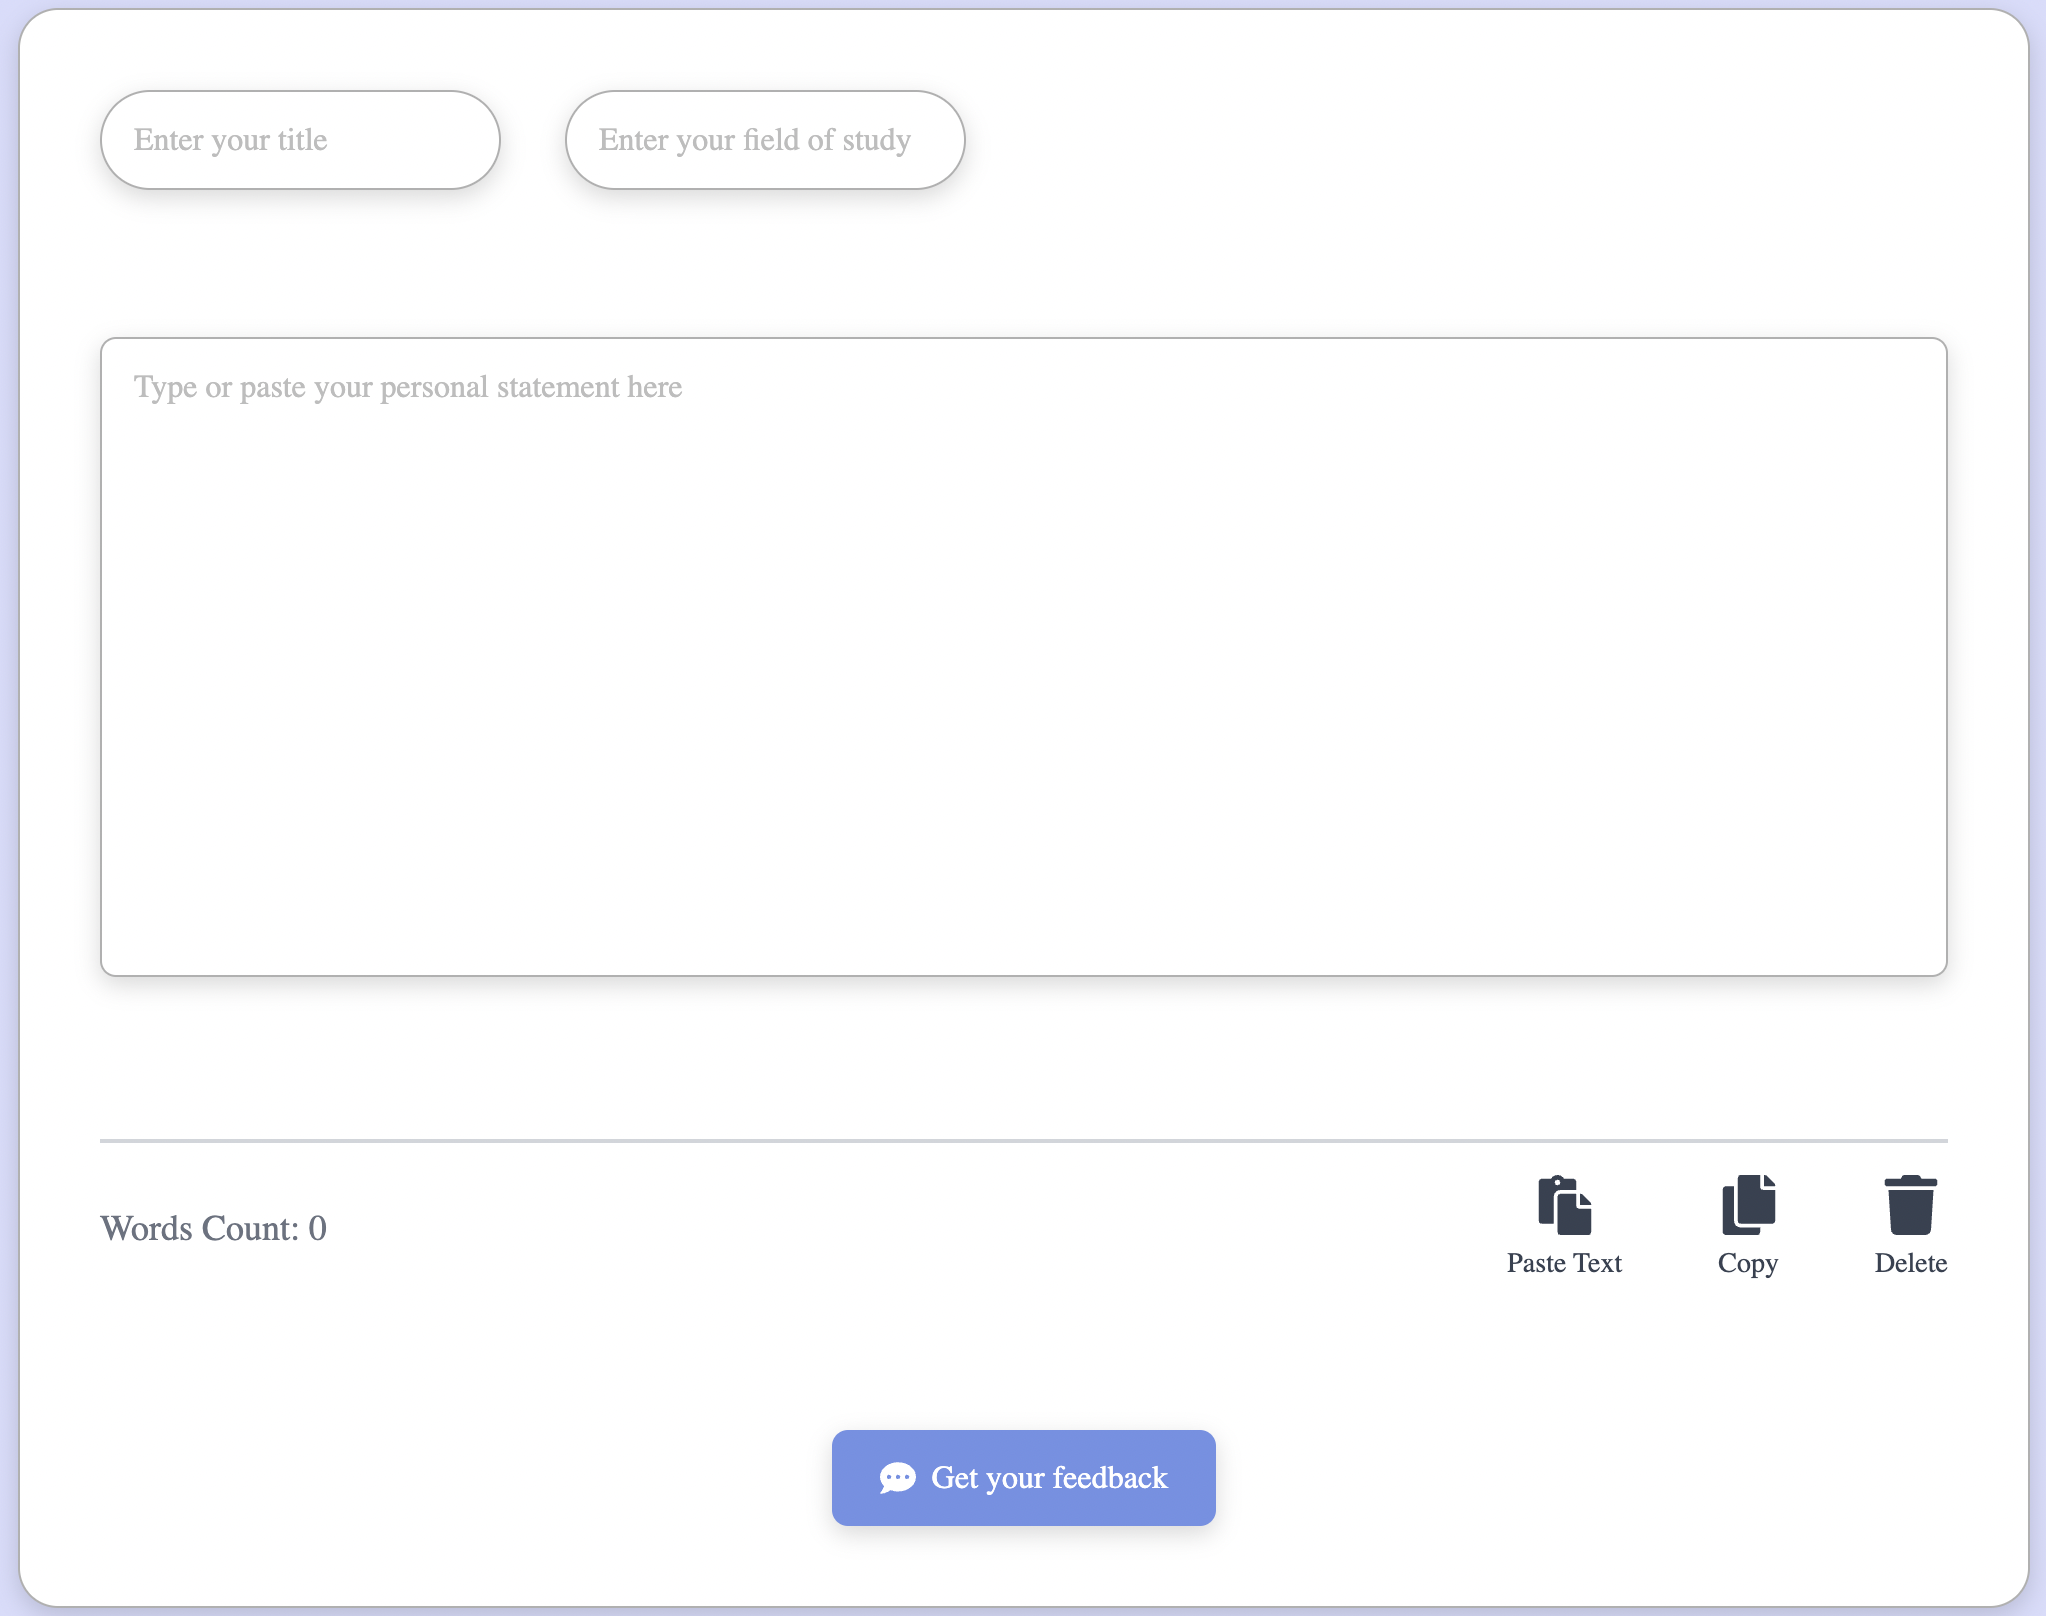
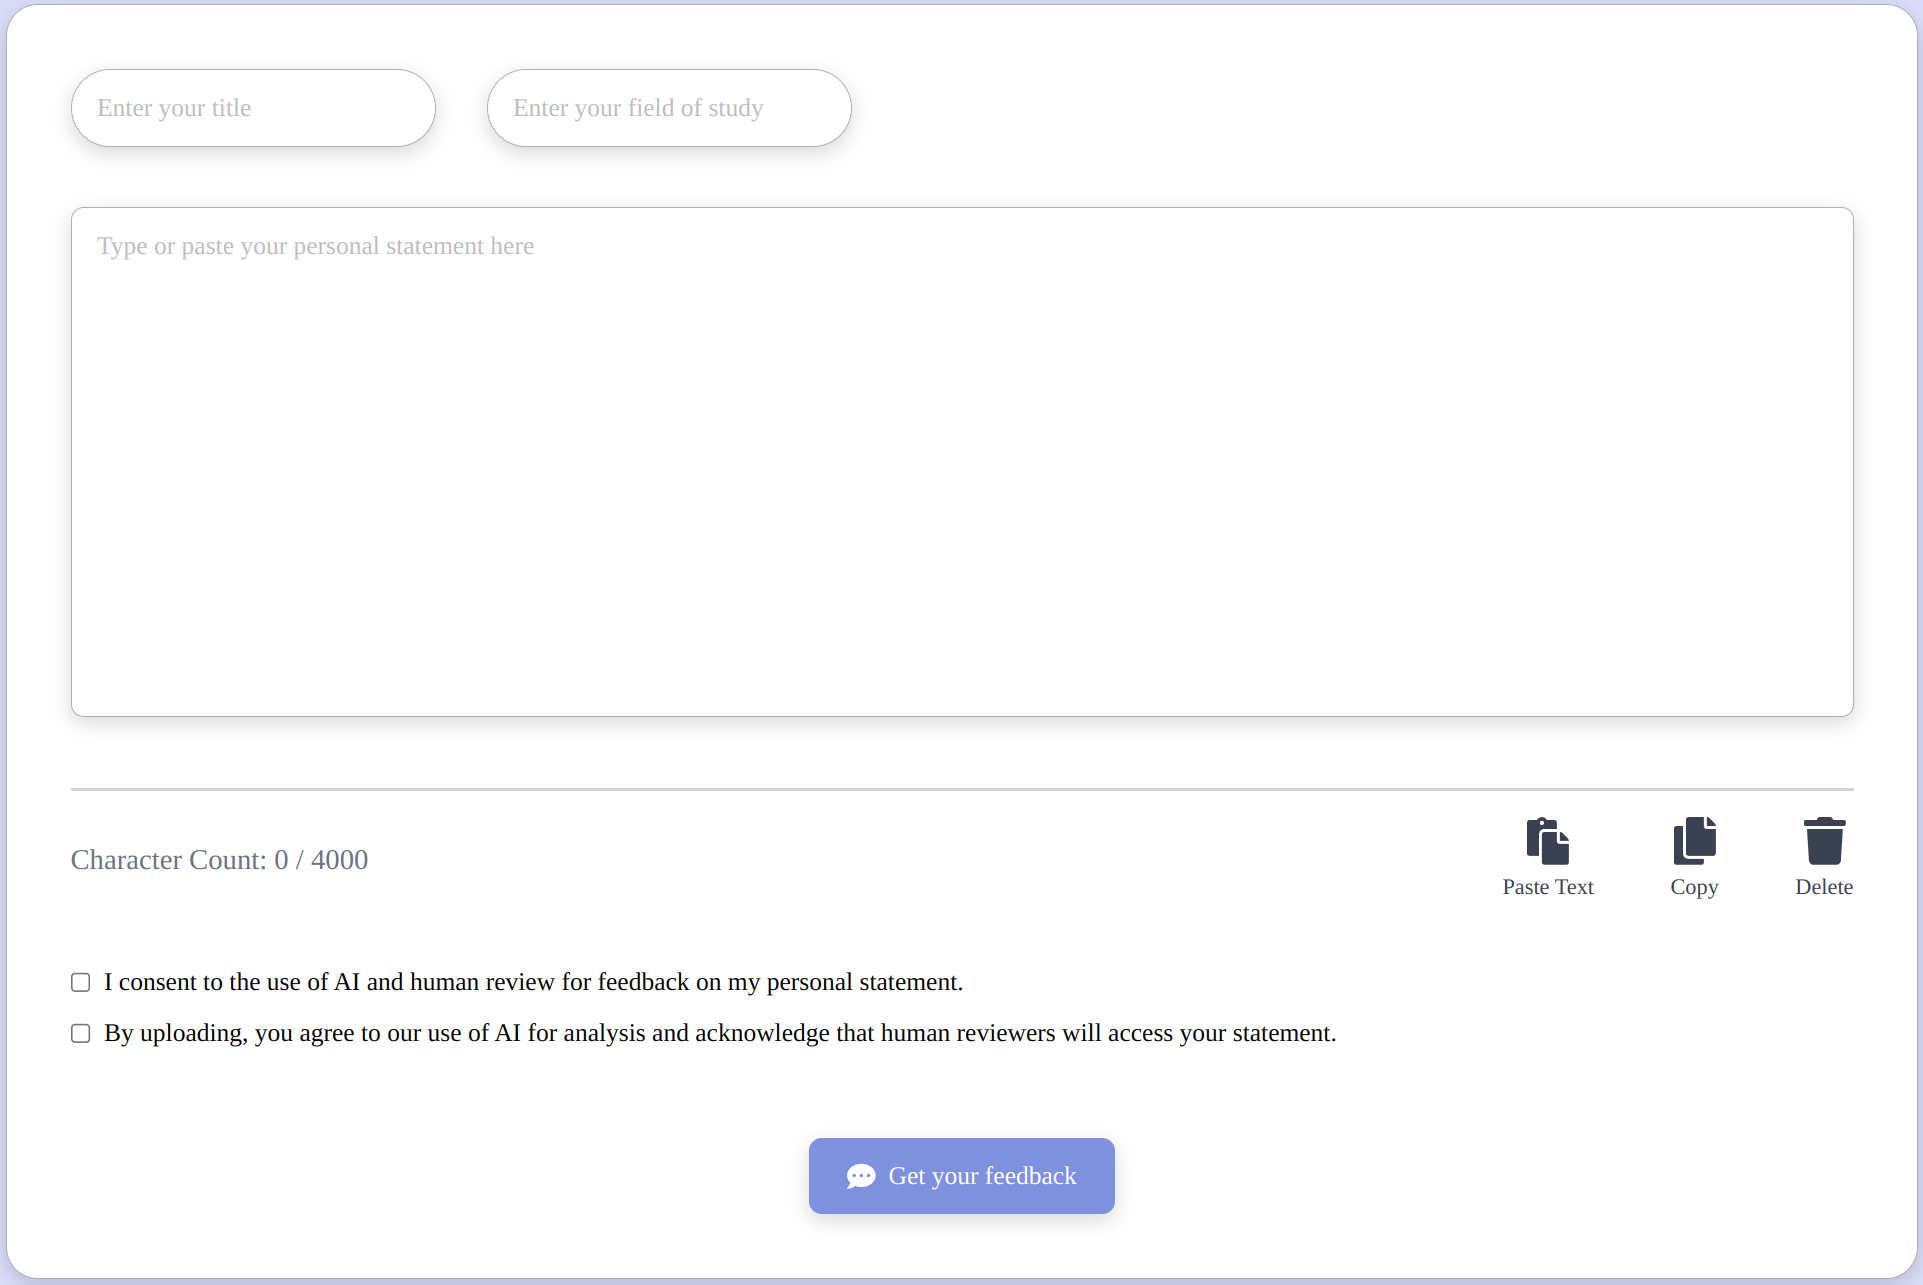
Add consent checkbox

diff --git a/frontend/src/pages/UploadPage.tsx b/frontend/src/pages/UploadPage.tsx
@@ -22,6 +22,8 @@ const UploadPage: React.FC = () => {
   const [errorMessage, setErrorMessage] = useState<string | null>(null);
   const [isLoading, setIsLoading] = useState<boolean>(false);
   const [showModal, setShowModal] = useState<boolean>(false);
+  const [consentChecked, setConsentChecked] = useState<boolean>(false);
+  const [acknowledgeChecked, setAcknowledgeChecked] = useState<boolean>(false);
 
   const pricingRef = useRef<HTMLDivElement>(null);
   const personalStatementRef = useRef<HTMLDivElement>(null);
@@ -31,6 +33,11 @@ const UploadPage: React.FC = () => {
   }, []);
 
   const submitEssay = () => {
+    if (!consentChecked || !acknowledgeChecked) {
+      setErrorMessage("Please agree to the terms and conditions.");
+      return;
+    }
+
     const csrfToken = getCSRFToken();
     const postUrl = focus === "Oxbridge" ? "api/essay/" : "api/essay/jardine/";
 
@@ -113,7 +120,12 @@ const UploadPage: React.FC = () => {
       ) : (
         <>
           <div className="max-w-screen-xl mx-auto px-4 py-10">
-            <h2 ref={personalStatementRef} className="text-3xl font-black uppercase text-slate-500 text-center mt-20">Personal Statement</h2>
+            <h2
+              ref={personalStatementRef}
+              className="text-3xl font-black uppercase text-slate-500 text-center mt-20"
+            >
+              Personal Statement
+            </h2>
             <div className="max-w-[1200px] mx-auto space-y-16">
               <FocusSection focus={focus} setFocus={setFocus} />
               <EssayForm
@@ -124,12 +136,14 @@ const UploadPage: React.FC = () => {
                 fieldOfStudy={fieldOfStudy}
                 setFieldOfStudy={setFieldOfStudy}
                 submitEssay={submitEssay}
+                consentChecked={consentChecked}
+                setConsentChecked={setConsentChecked}
+                acknowledgeChecked={acknowledgeChecked}
+                setAcknowledgeChecked={setAcknowledgeChecked}
               />
             </div>
             {errorMessage && (
-              <div className="mb-4 text-center text-red-600">
-                {errorMessage}
-              </div>
+              <div className="mb-4 text-center text-red-600">{errorMessage}</div>
             )}
           </div>
 
@@ -137,7 +151,7 @@ const UploadPage: React.FC = () => {
             <Pricing />
           </div>
 
-          <Footer/>
+          <Footer />
         </>
       )}
 

diff --git a/frontend/src/components/Essay/Upload/EssayForm.tsx b/frontend/src/components/Essay/Upload/EssayForm.tsx
@@ -13,6 +13,10 @@ interface EssayFormProps {
   fieldOfStudy: string;
   setFieldOfStudy: React.Dispatch<React.SetStateAction<string>>;
   submitEssay: () => void;
+  consentChecked: boolean;
+  setConsentChecked: React.Dispatch<React.SetStateAction<boolean>>;
+  acknowledgeChecked: boolean;
+  setAcknowledgeChecked: React.Dispatch<React.SetStateAction<boolean>>;
 }
 
 const EssayForm: React.FC<EssayFormProps> = ({
@@ -23,6 +27,10 @@ const EssayForm: React.FC<EssayFormProps> = ({
   fieldOfStudy,
   setFieldOfStudy,
   submitEssay,
+  consentChecked,
+  setConsentChecked,
+  acknowledgeChecked,
+  setAcknowledgeChecked,
 }) => {
   const textAreaRef = useRef<HTMLTextAreaElement>(null);
 
@@ -36,6 +44,28 @@ const EssayForm: React.FC<EssayFormProps> = ({
         </div>
         <PersonalStatementInput statement={statement} setStatement={setStatement} textAreaRef={textAreaRef} />
         <FormFooter statement={statement} setStatement={setStatement} textAreaRef={textAreaRef} />
+
+        <div className="mb-4">
+          <div className="flex items-center mb-2">
+            <input
+              type="checkbox"
+              checked={consentChecked}
+              onChange={() => setConsentChecked(!consentChecked)}
+              className="mr-2"
+            />
+            <label>I consent to the use of AI and human review for feedback on my personal statement.</label>
+          </div>
+          <div className="flex items-center">
+            <input
+              type="checkbox"
+              checked={acknowledgeChecked}
+              onChange={() => setAcknowledgeChecked(!acknowledgeChecked)}
+              className="mr-2"
+            />
+            <label>By uploading, you agree to our use of AI for analysis and acknowledge that human reviewers will access your statement.</label>
+          </div>
+        </div>
+
         <div className="flex justify-center">
           <SubmitButton submitEssay={submitEssay} />
         </div>

diff --git a/frontend/src/pages/CommentPage/CommentPage.tsx b/frontend/src/pages/CommentPage/CommentPage.tsx
@@ -62,7 +62,6 @@ const CommentPage: React.FC = () => {
         } else {
           setErrorMessage("An unexpected error occurred.");
         }
-        console.log(errorMessage);
       });
   };
 
@@ -71,7 +70,6 @@ const CommentPage: React.FC = () => {
   }, [currEmail, currUsername, psId]);
 
   const handleHighlightClick = (id: number) => {
-    console.log("Clicked highlight ID:", id);
     setActiveComment(id === activeComment ? null : id);
   };
 
@@ -91,12 +89,11 @@ const CommentPage: React.FC = () => {
             key={`highlight-${comment.id}`}
             data-highlight-id={comment.id}
             className={`cursor-pointer relative inline-block break-words max-w-full 
-              ${
-                !comment.is_good
-                  ? comment.id == activeComment
-                    ? "text-red-700"
-                    : "text-red-500"
-                  : comment.id == activeComment
+              ${!comment.is_good
+                ? comment.id == activeComment
+                  ? "text-red-700"
+                  : "text-red-500"
+                : comment.id == activeComment
                   ? "text-green-700"
                   : "text-green-500"
               }`}
@@ -132,7 +129,6 @@ const CommentPage: React.FC = () => {
     }
 
     const active = comments.find((comment) => comment.id === activeComment);
-    console.log("Active comment:", active);
 
     if (active) {
       return (
@@ -169,6 +165,9 @@ const CommentPage: React.FC = () => {
             >
               <p className="text-lg">{renderTextWithHighlights()}</p>
             </div>
+            <p className="text-sm text-gray-500 mt-2 italic">
+              AI comments are suggestions and should be reviewed critically. Your final decision matters most.
+            </p>
           </div>
           <div className="w-1/4">
             <div className="w-full mb-4">
